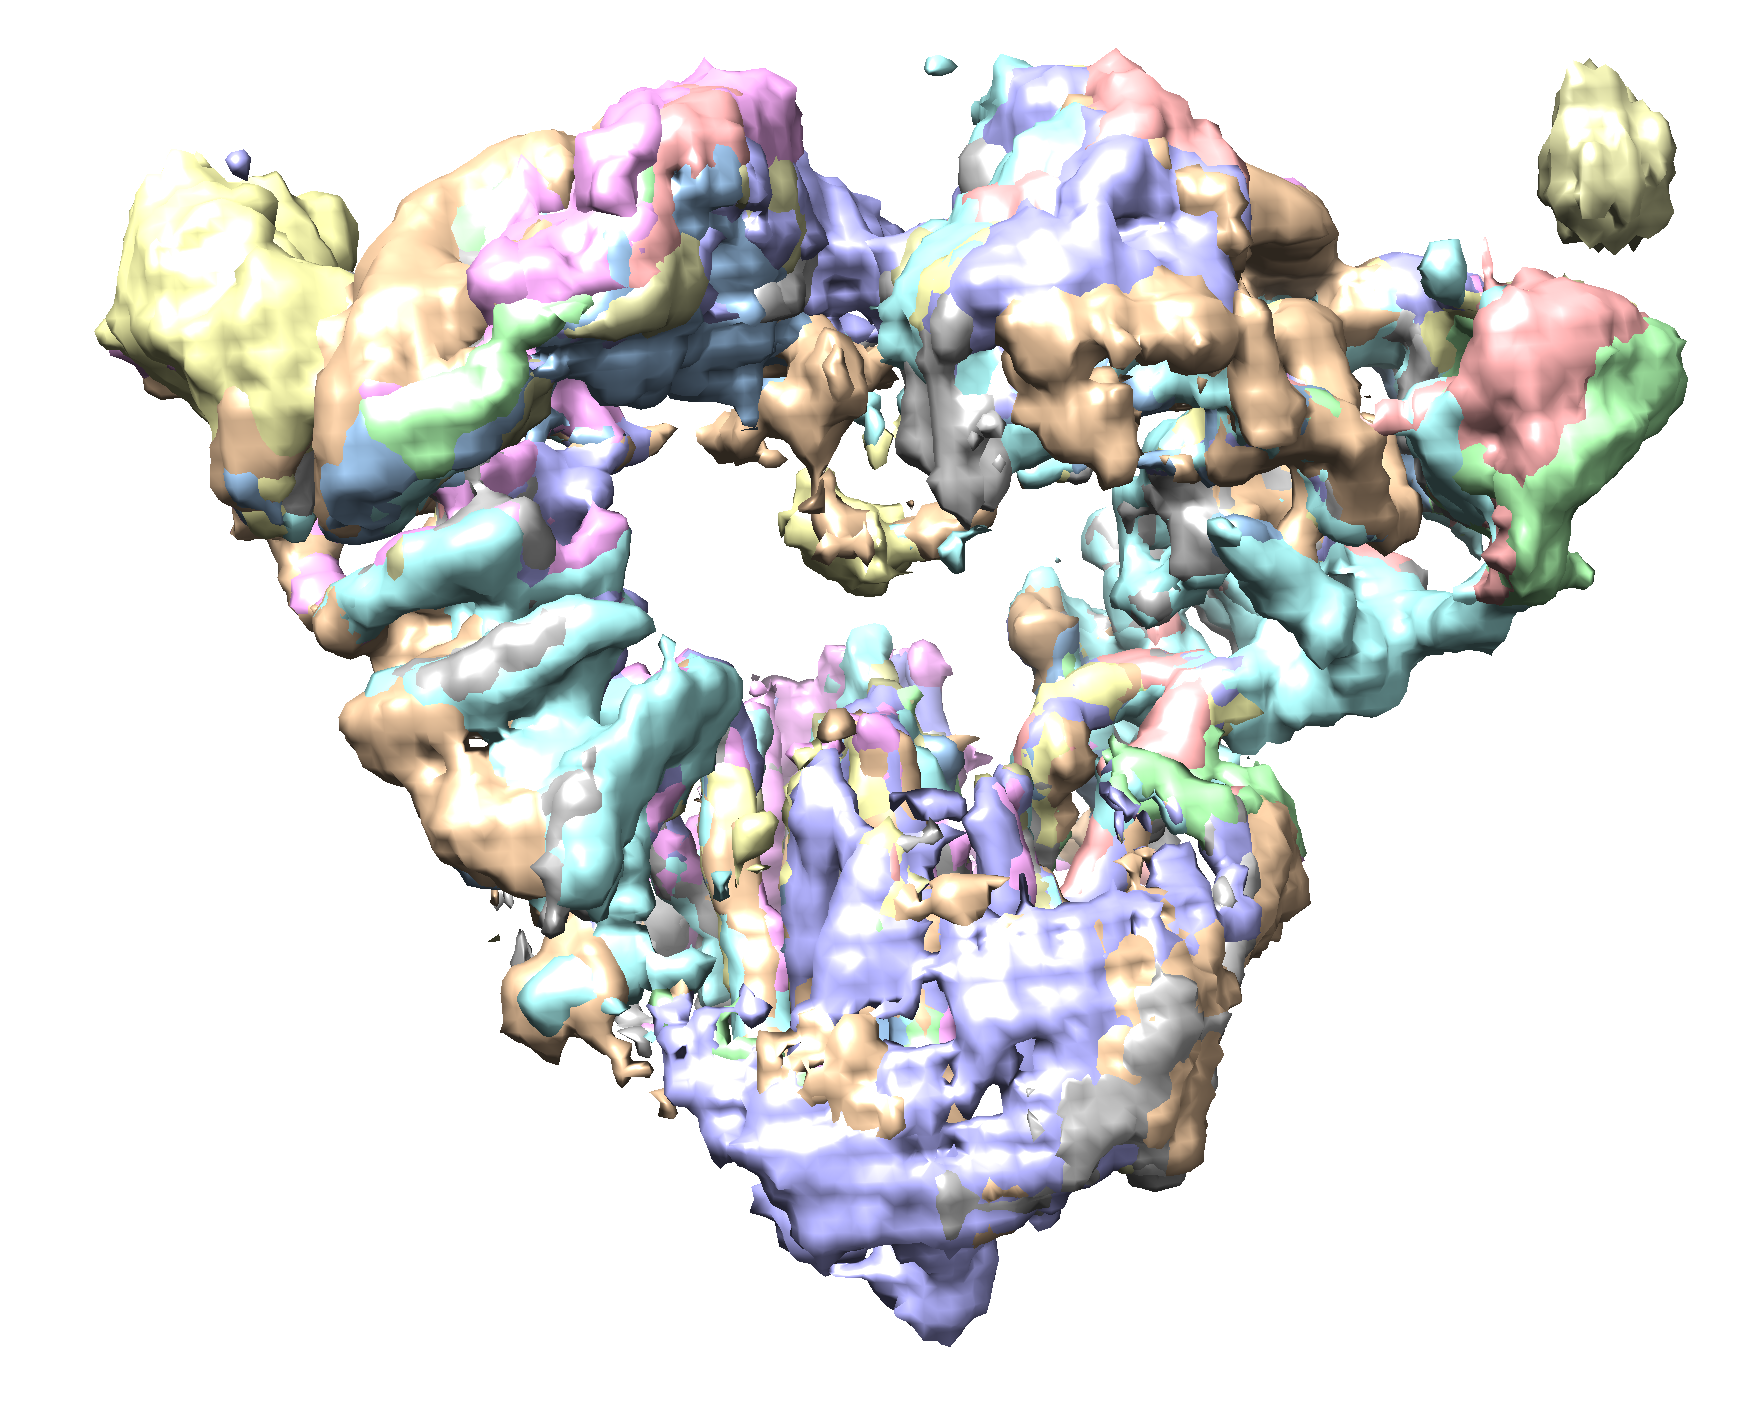
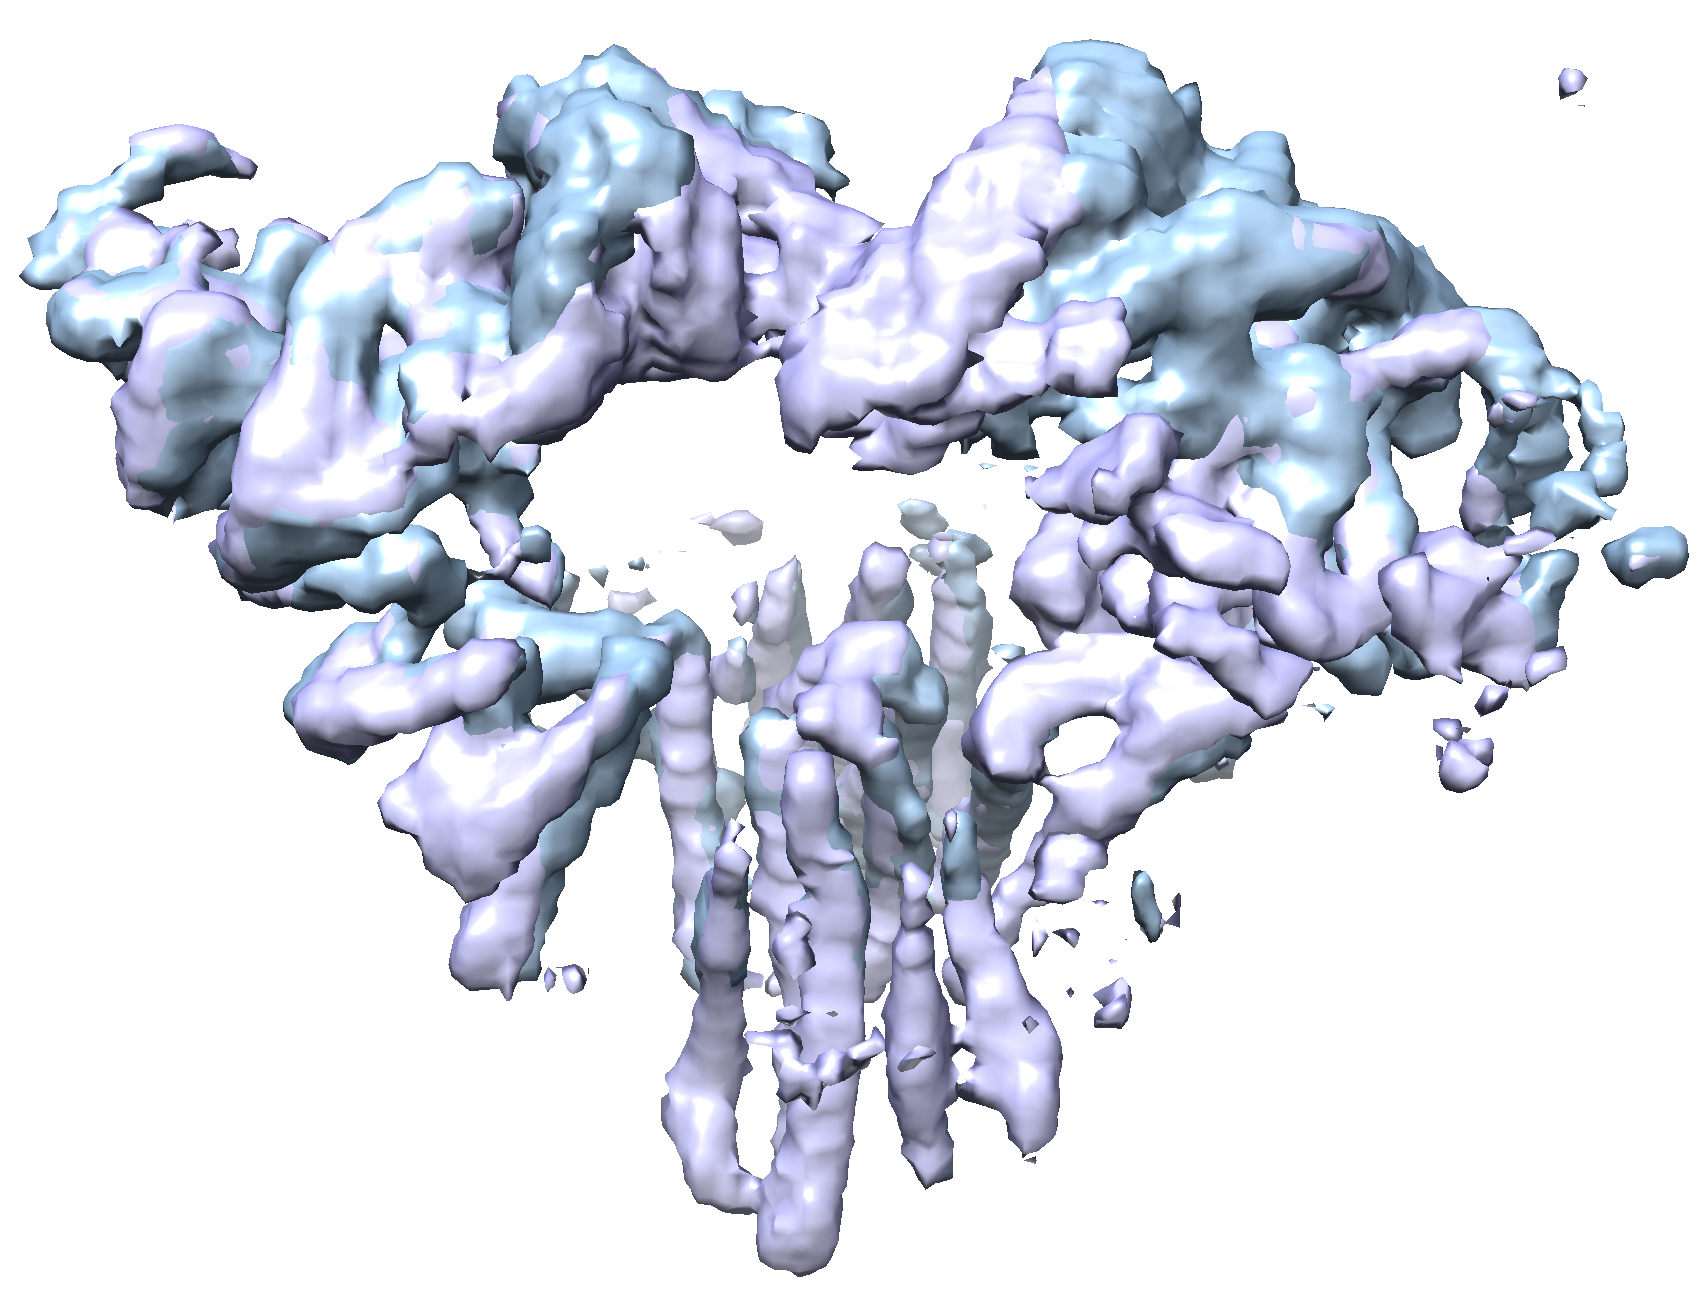
update readme

diff --git a/README.md b/README.md
@@ -56,10 +56,10 @@ We should not regard all missing densities at a certain contour level as composi
 The corresponding UMAP shows the locations of states:
 ![Alt text](https://raw.githubusercontent.com/alncat/opusDSD/main/example/umaph15.png?raw=true "hrd umap 15")
 
-Superposition of states:
+Superposition of state 8 with state 3:
 ![Alt text](https://raw.githubusercontent.com/alncat/opusDSD/main/example/hrds.png?raw=true "hrd 15 superposition")
 
-The superposition clearly demonstrated the wiggling of the two Hrd3 subunits. We can then understand how this complex can only be determined to low resolutions like 4.7 angstrom (consensus model) and the upper middle part shows blurred densities. This example demonstrates that DSD can resolve compositional changes and dynamics in a unified framework.
+The superposition clearly demonstrated the relative displacements of the two Hrd3 subunits. We can then understand how this complex can only be determined to low resolutions like 4.7 angstrom (consensus model) and the upper middle part shows blurred weak densities. This example demonstrates that DSD can resolve compositional changes and dynamics in a unified framework.
 
 # set up environment
 
